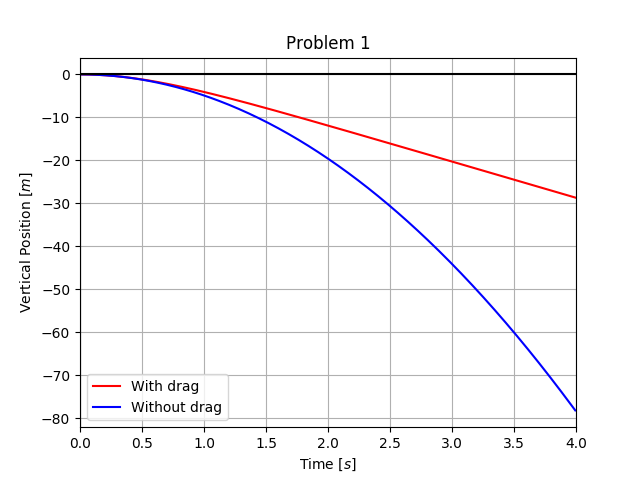
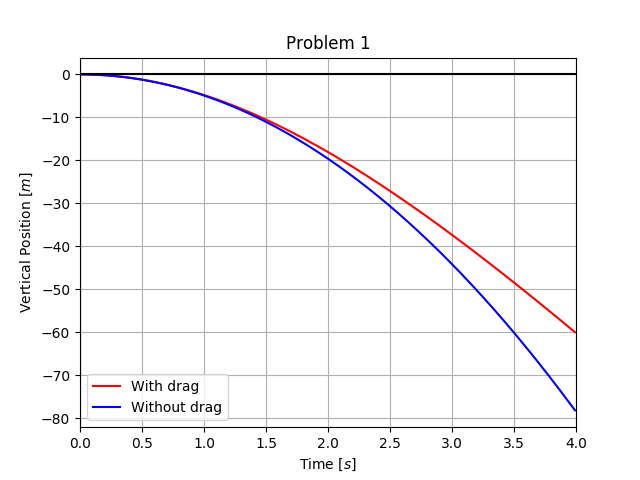
Correction made to homework 7: A typo had the soccer ball's mass at 1/10th its actual value.

diff --git a/Solutions/Assignment 8 - Homework 7/HW7_Erick_Shepherd.py b/Solutions/Assignment 8 - Homework 7/HW7_Erick_Shepherd.py
@@ -89,7 +89,7 @@ g   = 9.807  # Earth's gravity constant. Unit(s): m / s^2
 
 # Properties of the golf ball:
 A   = 0.0379 # Cross-sectional area.     Unit(s): m^2
-m   = 0.043  # Mass.                     Unit(s): kg
+m   = 0.43   # Mass.                     Unit(s): kg
 C   = 0.25   # Drag coefficient.         Unit(s): (dimensionless)
 
 def gravitational_force():
@@ -122,7 +122,7 @@ def trajectory(y0, v0, rho):
     
     state_vector = [y0, v0]
     
-    t = np.linspace(0, 10, 1000)
+    t = np.linspace(0, 20, 2000)
     
     results = odeint(trajectory_tendency, state_vector, t, args = (rho,))
     

diff --git a/Solutions/Assignment 8 - Homework 7/README.rst b/Solutions/Assignment 8 - Homework 7/README.rst
@@ -10,9 +10,7 @@ Problem 1 Sample Output:
 ========================
 ::
 
-    Problem 1:
-
-    The terminal velocity is -8.44 meters per second.
+    The terminal velocity is -26.69 meters per second.
     
 .. image:: Sample%20Output/Problem%201.png
    :width: 40pt
